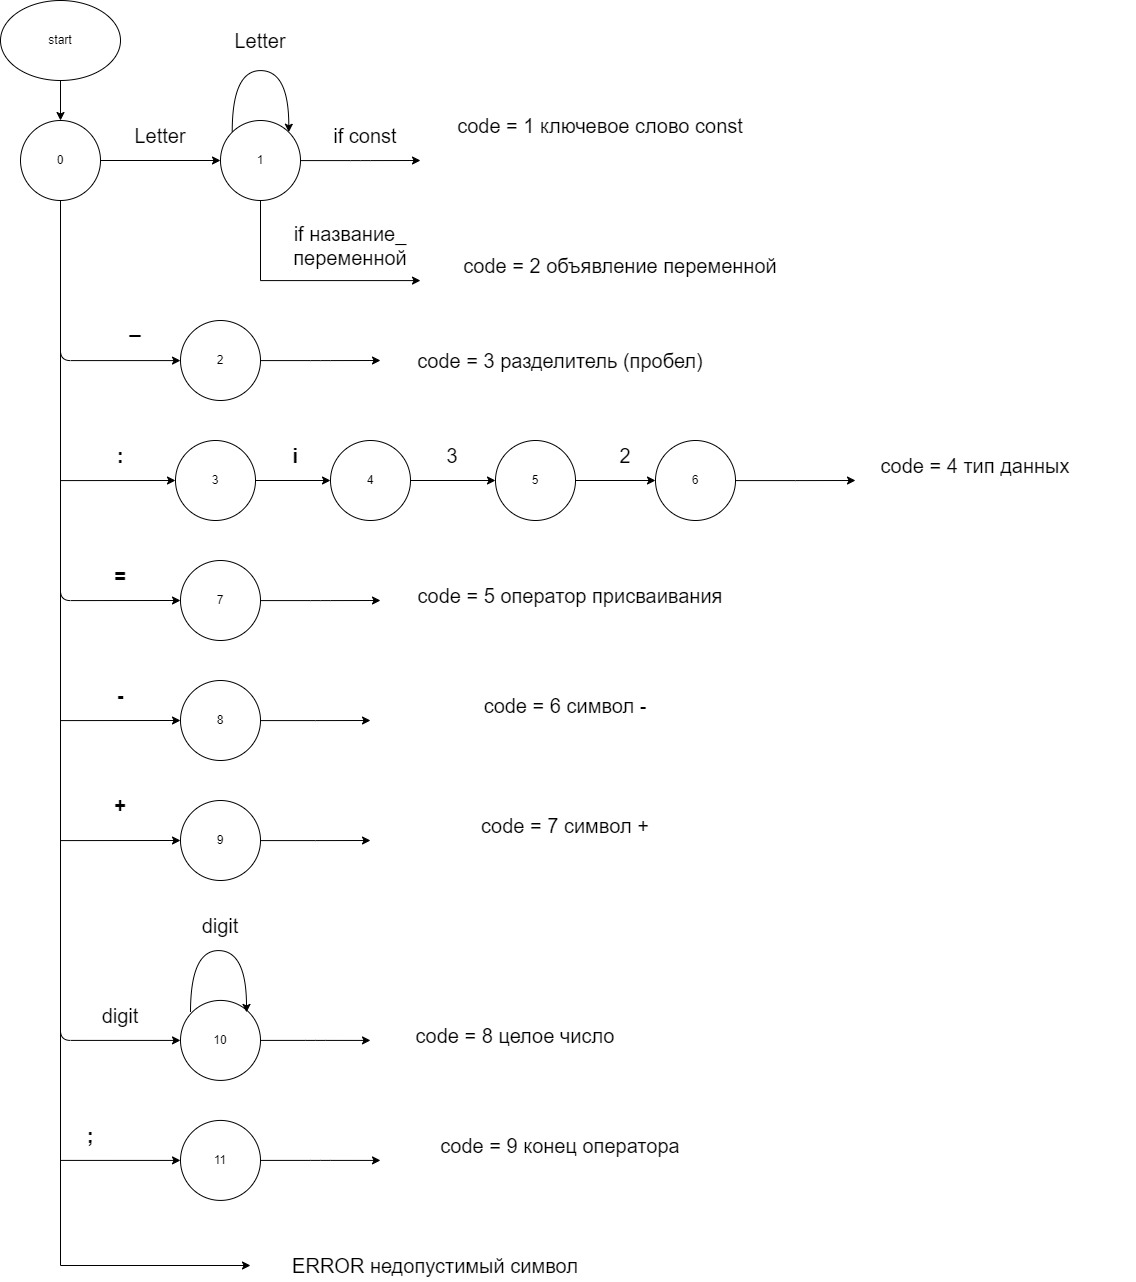
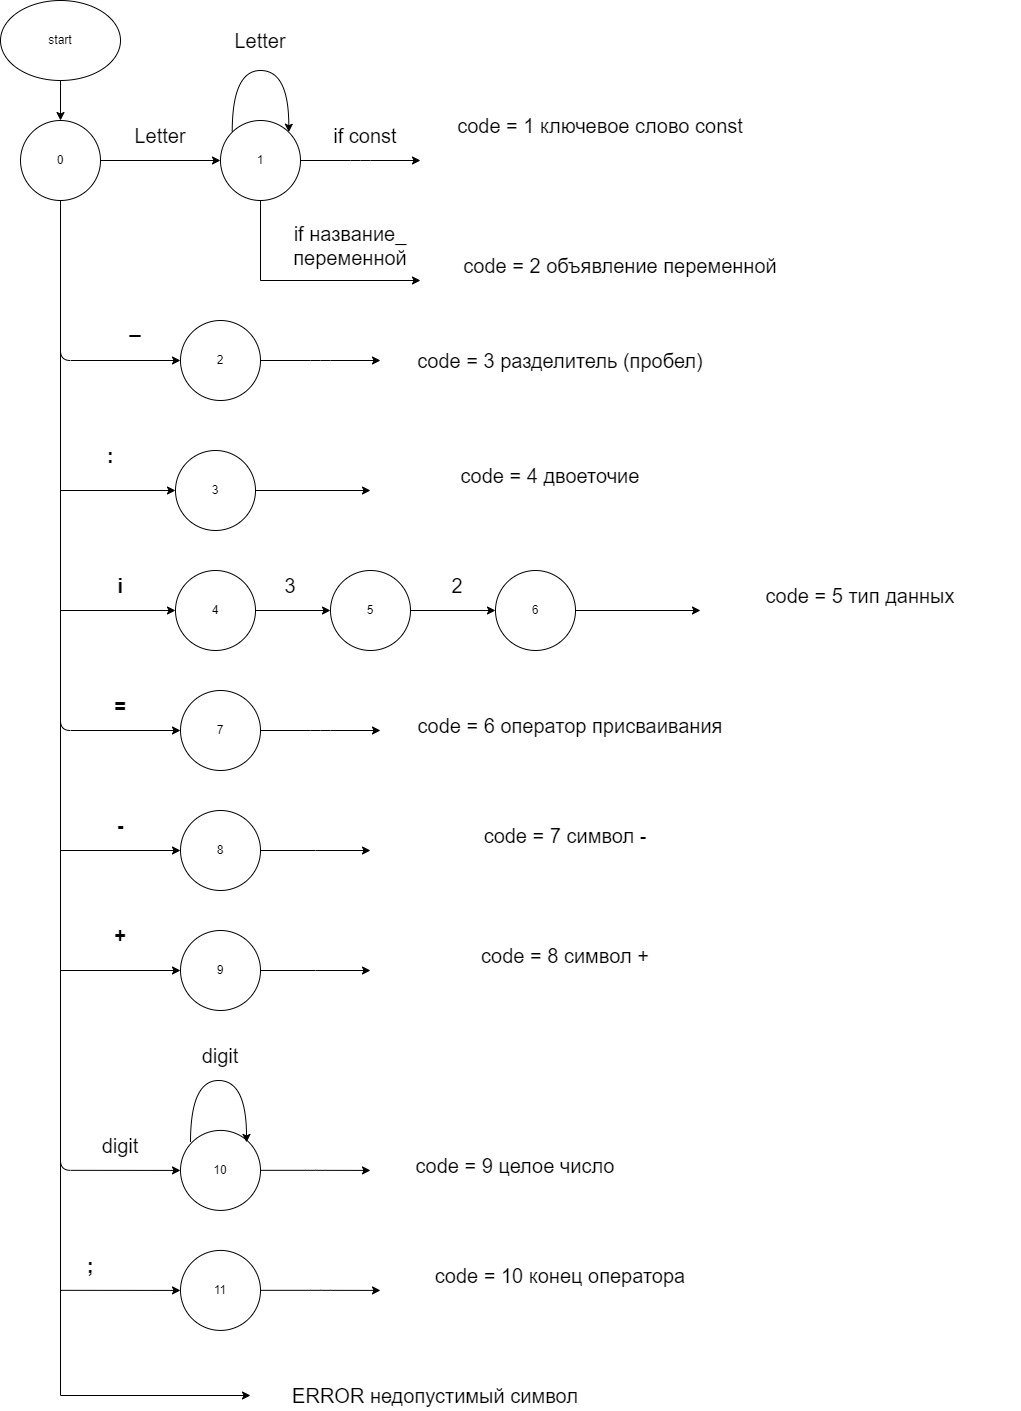
17:22

diff --git a/README.html b/README.html
@@ -12,7 +12,9 @@
         <p>const NUMBER:i32 = 76564; </p>
         <img src = "автомат.jpg" style="width: 700px">
     <p><b><i>Тестовые примеры:</b></i></p>
-    <img src = "example.png" style="width: 700px">
+    <img src = "ex1.png" style="width: 700px">
+    <img src = "ex2.png" style="width: 700px">
+    <img src = "ex3.png" style="width: 700px">
 </body>
 
 </html>

diff --git a/Form1.Designer.cs b/Form1.Designer.cs
@@ -73,14 +73,14 @@
             this.splitContainer1 = new System.Windows.Forms.SplitContainer();
             this.inputTextBox = new FastColoredTextBoxNS.FastColoredTextBox();
             this.dataGridView1 = new System.Windows.Forms.DataGridView();
-            this.statusStrip1 = new System.Windows.Forms.StatusStrip();
-            this.toolStripStatusLabel1 = new System.Windows.Forms.ToolStripStatusLabel();
-            this.backgroundWorker1 = new System.ComponentModel.BackgroundWorker();
             this.code = new System.Windows.Forms.DataGridViewTextBoxColumn();
             this.TokenType = new System.Windows.Forms.DataGridViewTextBoxColumn();
             this.Token = new System.Windows.Forms.DataGridViewTextBoxColumn();
             this.start = new System.Windows.Forms.DataGridViewTextBoxColumn();
             this.End = new System.Windows.Forms.DataGridViewTextBoxColumn();
+            this.statusStrip1 = new System.Windows.Forms.StatusStrip();
+            this.toolStripStatusLabel1 = new System.Windows.Forms.ToolStripStatusLabel();
+            this.backgroundWorker1 = new System.ComponentModel.BackgroundWorker();
             this.menuStrip1.SuspendLayout();
             this.panel1.SuspendLayout();
             ((System.ComponentModel.ISupportInitialize)(this.splitContainer1)).BeginInit();
@@ -117,7 +117,7 @@
             this.saveAsToolStripMenuItem,
             this.ExitToolStripMenuItem});
             this.файлToolStripMenuItem.Name = "файлToolStripMenuItem";
-            this.файлToolStripMenuItem.Size = new System.Drawing.Size(69, 29);
+            this.файлToolStripMenuItem.Size = new System.Drawing.Size(69, 30);
             this.файлToolStripMenuItem.Text = "Файл";
             // 
             // createToolStripMenuItem
@@ -166,7 +166,7 @@
             this.delToolStripMenuItem,
             this.allToolStripMenuItem});
             this.правкаToolStripMenuItem.Name = "правкаToolStripMenuItem";
-            this.правкаToolStripMenuItem.Size = new System.Drawing.Size(89, 29);
+            this.правкаToolStripMenuItem.Size = new System.Drawing.Size(89, 30);
             this.правкаToolStripMenuItem.Text = "Правка";
             // 
             // backToolStripMenuItem
@@ -230,7 +230,7 @@
             this.списокЛитературыToolStripMenuItem,
             this.исходныйКодПрограммыToolStripMenuItem});
             this.текстToolStripMenuItem.Name = "текстToolStripMenuItem";
-            this.текстToolStripMenuItem.Size = new System.Drawing.Size(70, 29);
+            this.текстToolStripMenuItem.Size = new System.Drawing.Size(70, 30);
             this.текстToolStripMenuItem.Text = "Текст";
             // 
             // постановкаЗадачиToolStripMenuItem
@@ -284,7 +284,7 @@
             // пускToolStripMenuItem
             // 
             this.пускToolStripMenuItem.Name = "пускToolStripMenuItem";
-            this.пускToolStripMenuItem.Size = new System.Drawing.Size(67, 29);
+            this.пускToolStripMenuItem.Size = new System.Drawing.Size(67, 30);
             this.пускToolStripMenuItem.Text = "Пуск";
             // 
             // справкаToolStripMenuItem
@@ -293,7 +293,7 @@
             this.helpToolStripMenuItem,
             this.aboutToolStripMenuItem});
             this.справкаToolStripMenuItem.Name = "справкаToolStripMenuItem";
-            this.справкаToolStripMenuItem.Size = new System.Drawing.Size(97, 29);
+            this.справкаToolStripMenuItem.Size = new System.Drawing.Size(97, 30);
             this.справкаToolStripMenuItem.Text = "Справка";
             // 
             // helpToolStripMenuItem
@@ -514,6 +514,7 @@
             this.inputTextBox.CharWidth = 12;
             this.inputTextBox.Cursor = System.Windows.Forms.Cursors.IBeam;
             this.inputTextBox.DisabledColor = System.Drawing.Color.FromArgb(((int)(((byte)(100)))), ((int)(((byte)(180)))), ((int)(((byte)(180)))), ((int)(((byte)(180)))));
+            this.inputTextBox.Font = new System.Drawing.Font("Courier New", 9.75F);
             this.inputTextBox.IsReplaceMode = false;
             this.inputTextBox.Language = FastColoredTextBoxNS.Language.CSharp;
             this.inputTextBox.LeftBracket = '(';
@@ -543,24 +544,8 @@
             this.dataGridView1.Name = "dataGridView1";
             this.dataGridView1.RowHeadersWidth = 62;
             this.dataGridView1.RowTemplate.Height = 28;
-            this.dataGridView1.Size = new System.Drawing.Size(771, 293);
+            this.dataGridView1.Size = new System.Drawing.Size(771, 800);
             this.dataGridView1.TabIndex = 0;
-            // 
-            // statusStrip1
-            // 
-            this.statusStrip1.ImageScalingSize = new System.Drawing.Size(24, 24);
-            this.statusStrip1.Items.AddRange(new System.Windows.Forms.ToolStripItem[] {
-            this.toolStripStatusLabel1});
-            this.statusStrip1.Location = new System.Drawing.Point(0, 722);
-            this.statusStrip1.Name = "statusStrip1";
-            this.statusStrip1.Size = new System.Drawing.Size(778, 22);
-            this.statusStrip1.TabIndex = 7;
-            this.statusStrip1.Text = "statusStrip1";
-            // 
-            // toolStripStatusLabel1
-            // 
-            this.toolStripStatusLabel1.Name = "toolStripStatusLabel1";
-            this.toolStripStatusLabel1.Size = new System.Drawing.Size(0, 15);
             // 
             // code
             // 
@@ -601,6 +586,22 @@
             this.End.Name = "End";
             this.End.ReadOnly = true;
             this.End.Width = 150;
+            // 
+            // statusStrip1
+            // 
+            this.statusStrip1.ImageScalingSize = new System.Drawing.Size(24, 24);
+            this.statusStrip1.Items.AddRange(new System.Windows.Forms.ToolStripItem[] {
+            this.toolStripStatusLabel1});
+            this.statusStrip1.Location = new System.Drawing.Point(0, 722);
+            this.statusStrip1.Name = "statusStrip1";
+            this.statusStrip1.Size = new System.Drawing.Size(778, 22);
+            this.statusStrip1.TabIndex = 7;
+            this.statusStrip1.Text = "statusStrip1";
+            // 
+            // toolStripStatusLabel1
+            // 
+            this.toolStripStatusLabel1.Name = "toolStripStatusLabel1";
+            this.toolStripStatusLabel1.Size = new System.Drawing.Size(0, 15);
             // 
             // Form1
             // 

diff --git a/Form1.cs b/Form1.cs
@@ -250,14 +250,15 @@ namespace laba1
         {
             //const MARKS:i32 = 100; 
             Keyword,
+            Identifier,
+            Delimiter,
+            Colon,
             DataType,
             Equally,
-            Semicolon,
-            Plus,
             Minus,
-            Delimiter,
-            Identifier,
+            Plus,
             Number,
+            Semicolon,
             Invalid
         }
 
@@ -268,20 +269,22 @@ namespace laba1
             Dictionary<LexemeType, int> lexemeCodes = new Dictionary<LexemeType, int>()
     {
         { LexemeType.Keyword, 1 },
-        { LexemeType.Delimiter, 3 },
         { LexemeType.Identifier, 2 },
-        { LexemeType.DataType, 4 },
-        { LexemeType.Equally, 5 },
-        { LexemeType.Plus, 7 },
-        { LexemeType.Minus, 6 },
-        { LexemeType.Semicolon, 9 },
-        { LexemeType.Number, 8 },
-        { LexemeType.Invalid, 10 }
+        { LexemeType.Delimiter, 3 },
+        { LexemeType.Colon, 4 },
+        { LexemeType.DataType, 5 },
+        { LexemeType.Equally, 6 },
+        { LexemeType.Minus, 7 },
+        { LexemeType.Plus, 8 },
+        { LexemeType.Number, 9 },
+        { LexemeType.Semicolon, 10 },        
+        { LexemeType.Invalid, 11 }
     };
 
             string[] keywords = { "const" };
             string[] delimiters = { " " };
-            string[] dataTypes = { ":i32" };
+            string[] colons = { ":" };
+            string[] dataTypes = { "i32" };
             string[] equallies = { "=" };
             string[] pluses = { "+" };
             string[] minuses = { "-" };
@@ -302,6 +305,20 @@ namespace laba1
                     {
                         lexemes.Add(new Lexeme(lexemeCodes[LexemeType.Keyword], LexemeType.Keyword, input, position, position + keyword.Length - 1));
                         position += keyword.Length;
+                        found = true;
+                        break;
+                    }
+                }
+
+                if (found) continue;
+
+                //:
+                foreach (string op in colons)
+                {
+                    if (input.Substring(position).StartsWith(op))
+                    {
+                        lexemes.Add(new Lexeme(lexemeCodes[LexemeType.Colon], LexemeType.Colon, input, position, position + op.Length - 1));
+                        position += op.Length;
                         found = true;
                         break;
                     }

diff --git a/README.md b/README.md
@@ -1,11 +1,20 @@
-Цель: Изучить назначение лексического анализатора. Спроектировать алгоритм и выполнить программную реализацию сканера.</h1>
-Вариант: Объявление целочисленной константы с инициализацией на языке Rust</h2>
+<html>
 
-Примеры верных строк:
-const MARKS:i32 = 100;
-const NUM:i32 = 5;
-const NUMBER:i32 = 76564;
+<head>
+    <h1>Цель: Изучить назначение лексического анализатора. Спроектировать алгоритм и выполнить программную реализацию сканера.</h1>
+    <h2>Вариант: Объявление целочисленной константы с инициализацией на языке Rust</h2>
+</head>
 
-<img src = "автомат.jpg" style="width: 700px">
-Тестовые примеры:
-<img src = "example.png" style="width: 700px">
+<body>
+    <p><b><i>Примеры верных строк:</b></i></p>
+        <p>const MARKS:i32 = 100; </p>
+        <p>const NUM:i32 = 5; </p>
+        <p>const NUMBER:i32 = 76564; </p>
+        <img src = "автомат.jpg" style="width: 700px">
+    <p><b><i>Тестовые примеры:</b></i></p>
+    <img src = "ex1.png" style="width: 700px">
+    <img src = "ex2.png" style="width: 700px">
+    <img src = "ex3.png" style="width: 700px">
+</body>
+
+</html>
